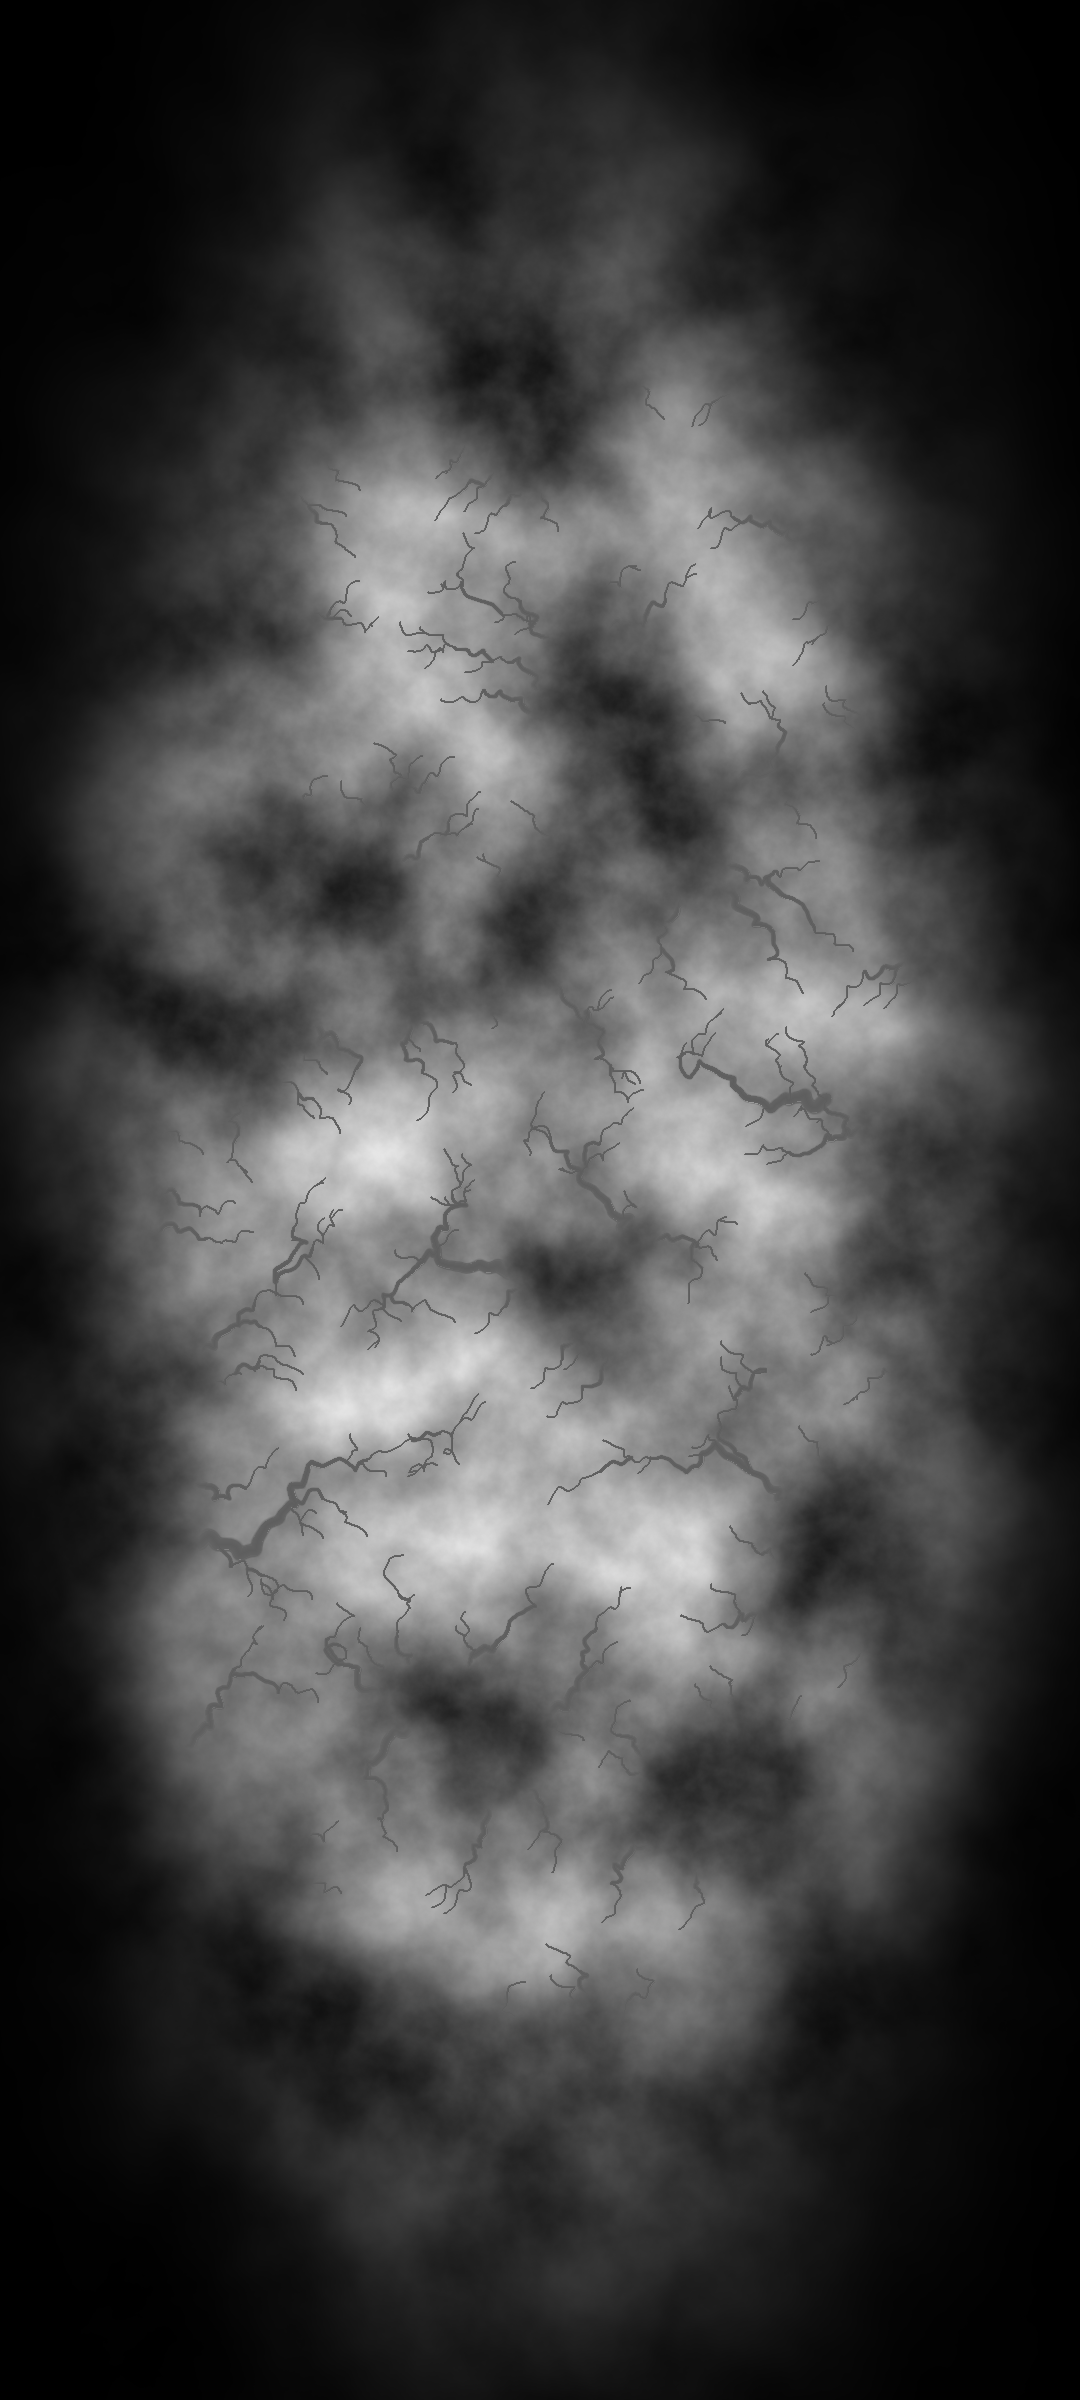
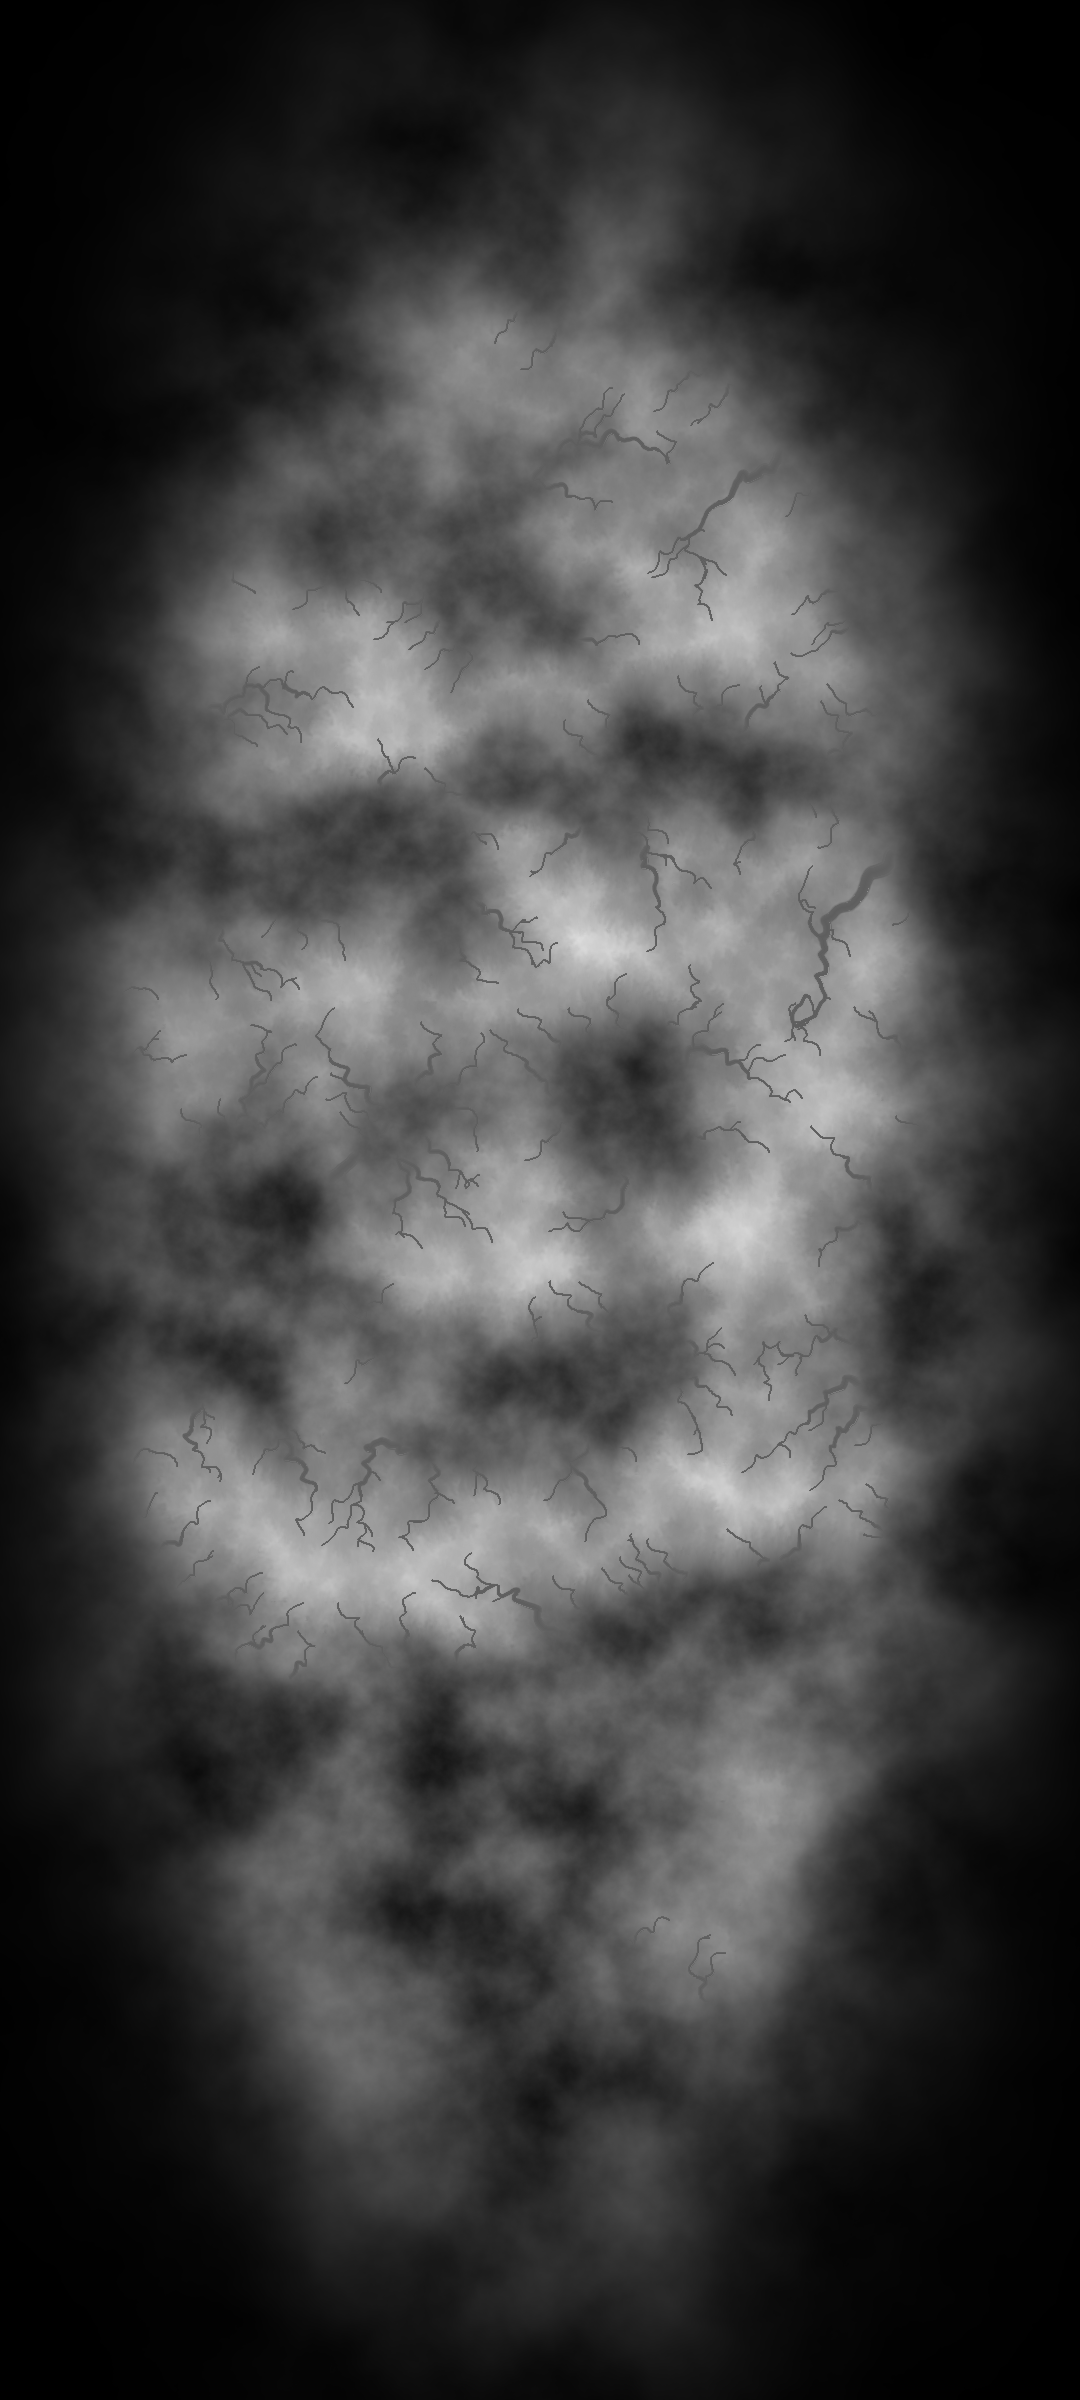
Fix bug that bugged-out the erosion simulation if mapWidth was not equal to mapHeight

diff --git a/src/MapGenerator.cpp b/src/MapGenerator.cpp
@@ -588,7 +588,7 @@ void initializeErosionBrush(std::vector<std::vector<int>>& erosionBrushIndices, 
 
             // Calculate the centre position of the point
             int centreX = i % mapWidth;
-            int centreY = i / mapHeight;
+            int centreY = i / mapWidth;
 
             // Check if point lies within the brush's reach
             if (centreY <= erosionRadius
@@ -702,8 +702,8 @@ HeightAndGradient calculateHeightAndGradient(std::vector<float>& heightMap, floa
     int nwIndex = coordY * mapWidth + coordX;
     float nwHeight = heightMap[nwIndex];
     float neHeight = (coordX + 1 < mapWidth) ? heightMap[nwIndex + 1] : nwHeight;
-    float swHeight = (coordY + 1 < mapWidth) ? heightMap[nwIndex + mapWidth] : nwHeight;
-    float seHeight = ((coordX + 1 < mapWidth) && (coordY + 1 < mapWidth)) ? heightMap[nwIndex + mapWidth + 1] : nwHeight;
+    float swHeight = (coordY + 1 < mapHeight) ? heightMap[nwIndex + mapWidth] : nwHeight;
+    float seHeight = ((coordX + 1 < mapWidth) && (coordY + 1 < mapHeight)) ? heightMap[nwIndex + mapWidth + 1] : nwHeight;
 
     //Calculate the drop's direction of flow with bi-linear interpolation of height difference along the edges
     float gradientX = (neHeight - nwHeight) * (1 - y) + (seHeight - swHeight) * y;
@@ -985,8 +985,8 @@ MapData generate(MapConfig mapConfig) {
     // Create height map
     std::vector<float> heightMap = generateNoiseHeightMap(mapConfig);
 
-//    // Perform erosion
-//    simulateErosion(mapConfig, heightMap);
+    // Perform erosion
+    simulateErosion(mapConfig, heightMap);
 
     // Perform river generation
     generateRiversInHeightMap(mapConfig, heightMap);
